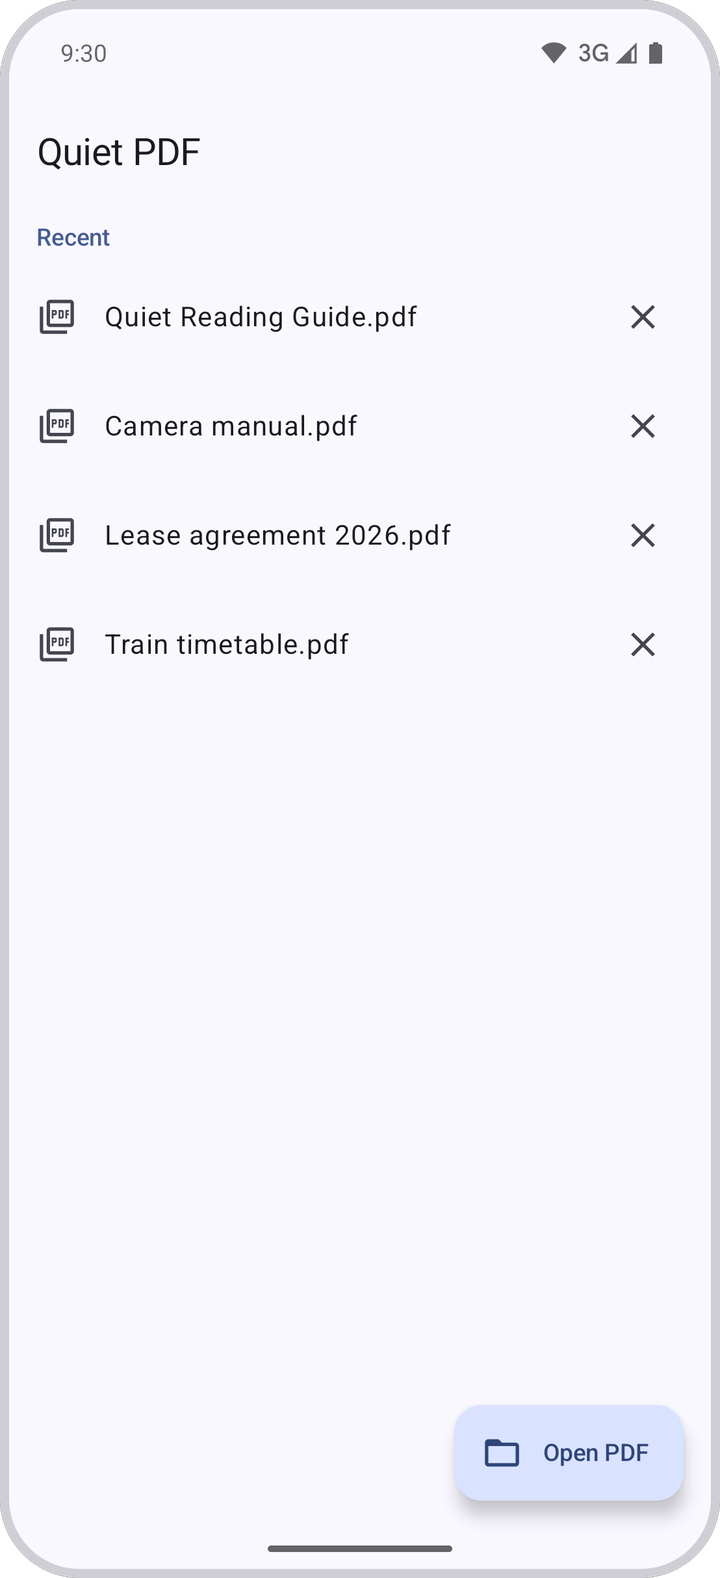
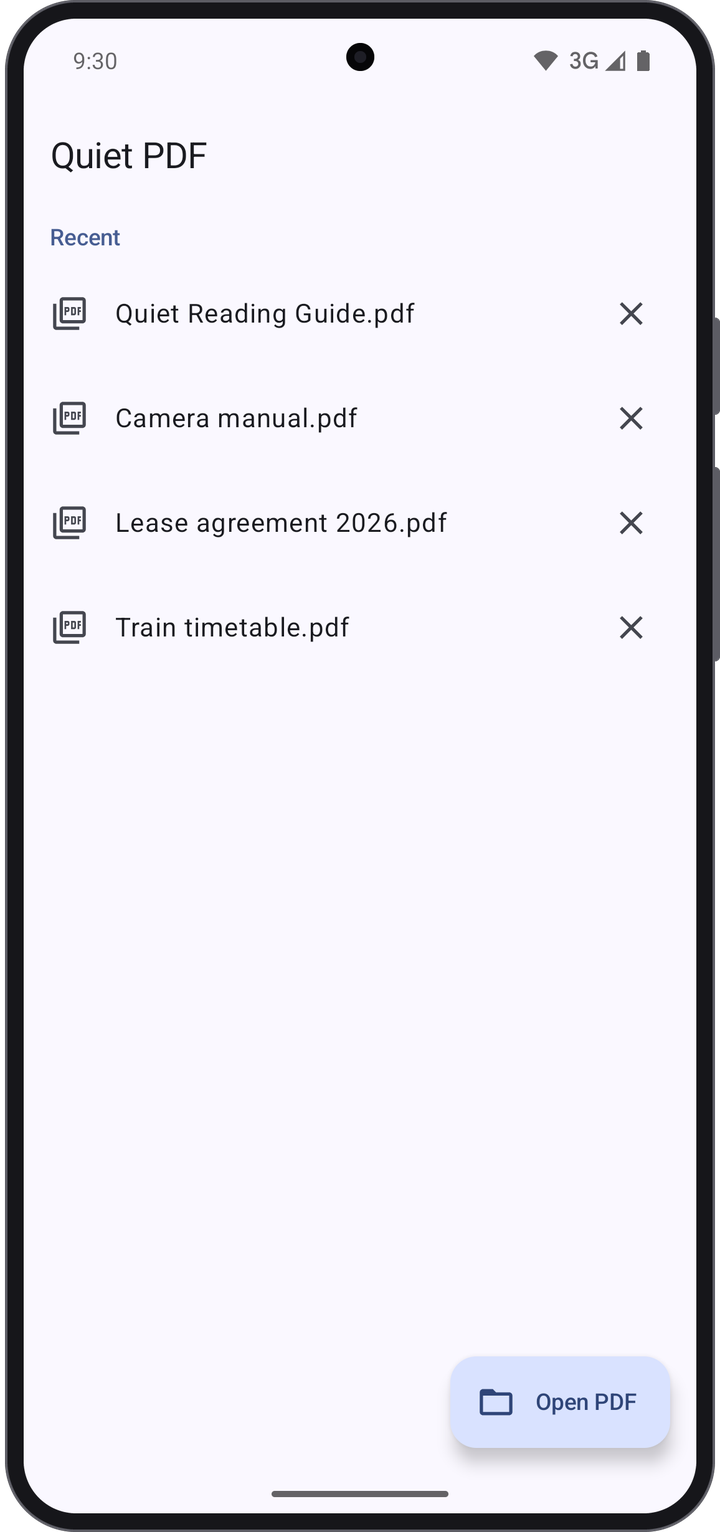
Frame the README screenshots as an Android phone
The first frames were a plain rounded outline, which reads as an
iPhone-style store capture rather than the Android phone the app runs
on. The frame is now a dark bezel with a centred punch-hole camera,
tighter screen corners and side buttons, with a lighter rim so the body
stays visible on a dark page.

diff --git a/tools/frame_screenshots.py b/tools/frame_screenshots.py
@@ -1,11 +1,11 @@
 #!/usr/bin/env python3
 # SPDX-License-Identifier: GPL-3.0-only
-"""Puts the raw screenshots in a phone-shaped frame for the README.
+"""Puts the raw screenshots in an Android phone frame for the README.
 
 Reads every PNG in docs/screenshots/ (the plain 1080x2400 captures, which are also what a
-store listing needs) and writes a framed copy to docs/screenshots/framed/: rounded screen
-corners, a thin bezel and a transparent background, so they sit well on a light or a dark
-page.
+store listing needs) and writes a framed copy to docs/screenshots/framed/: a dark bezel with
+a centred punch-hole camera and side buttons, on a transparent background. A lighter rim
+around the body keeps the phone visible on a dark page.
 
 Run from the repository root after retaking screenshots; needs Pillow:
 
@@ -19,10 +19,22 @@ SOURCE = Path("docs/screenshots")
 OUTPUT = SOURCE / "framed"
 
 OUTPUT_WIDTH = 720          # the README shows them far smaller; this keeps them sharp when opened
-BEZEL = 0.013               # bezel thickness, as a fraction of the screen width
-CORNER = 0.10               # screen corner radius, as a fraction of the screen width
-BEZEL_COLOUR = (206, 206, 212, 255)
-SUPERSAMPLE = 4             # masks are drawn this much larger, then shrunk, for smooth corners
+SUPERSAMPLE = 4             # shapes are drawn this much larger, then shrunk, for smooth edges
+
+# Sizes are fractions of the screen width, so any capture size works.
+BEZEL = 0.024               # dark band between the screen and the edge of the body
+RIM = 0.004                 # lighter line around the body
+CORNER = 0.078              # screen corner radius
+CAMERA = 0.042              # punch-hole diameter
+CAMERA_TOP = 0.036          # distance from the top of the screen to the camera's edge
+BUTTON_DEPTH = 0.007        # how far the side buttons stick out
+# Side buttons on the right edge: (top, height), as fractions of the screen height.
+BUTTONS = [(0.20, 0.065), (0.30, 0.13)]
+
+BODY = (22, 22, 26, 255)
+RIM_COLOUR = (92, 92, 100, 255)
+CAMERA_COLOUR = (6, 6, 8, 255)
+LENS_COLOUR = (30, 30, 38, 255)
 
 
 def rounded_mask(size: tuple[int, int], radius: int) -> Image.Image:
@@ -33,18 +45,37 @@ def rounded_mask(size: tuple[int, int], radius: int) -> Image.Image:
     return big.resize(size, Image.LANCZOS)
 
 
+def paste_rounded(target: Image.Image, colour, box: tuple[int, int, int, int], radius: int) -> None:
+    """Fills the rounded rectangle [box] (left, top, width, height) with [colour]."""
+    left, top, width, height = box
+    target.paste(Image.new("RGBA", (width, height), colour), (left, top), rounded_mask((width, height), radius))
+
+
 def frame(screen: Image.Image) -> Image.Image:
     width, height = screen.size
-    bezel = round(width * BEZEL)
+    bezel, rim = round(width * BEZEL), max(2, round(width * RIM))
     corner = round(width * CORNER)
-    size = (width + 2 * bezel, height + 2 * bezel)
+    depth = round(width * BUTTON_DEPTH)
+    edge = bezel + rim
+    body_w, body_h = width + 2 * edge, height + 2 * edge
 
-    phone = Image.new("RGBA", size, (0, 0, 0, 0))
-    phone.paste(Image.new("RGBA", size, BEZEL_COLOUR), (0, 0), rounded_mask(size, corner + bezel))
-    phone.paste(screen.convert("RGBA"), (bezel, bezel), rounded_mask(screen.size, corner))
+    # The same margin on both sides keeps the phone centred although only one side has buttons.
+    phone = Image.new("RGBA", (body_w + 2 * depth, body_h), (0, 0, 0, 0))
+    for top, length in BUTTONS:
+        paste_rounded(phone, RIM_COLOUR, (depth + body_w - depth, edge + round(height * top), 2 * depth, round(height * length)), depth)
+    paste_rounded(phone, RIM_COLOUR, (depth, 0, body_w, body_h), corner + edge)
+    paste_rounded(phone, BODY, (depth + rim, rim, body_w - 2 * rim, body_h - 2 * rim), corner + bezel)
+    phone.paste(screen.convert("RGBA"), (depth + edge, edge), rounded_mask(screen.size, corner))
 
-    scale = OUTPUT_WIDTH / size[0]
-    return phone.resize((OUTPUT_WIDTH, round(size[1] * scale)), Image.LANCZOS)
+    camera = round(width * CAMERA)
+    lens = round(camera * 0.42)
+    centre_x = depth + edge + width // 2
+    camera_top = edge + round(width * CAMERA_TOP)
+    paste_rounded(phone, CAMERA_COLOUR, (centre_x - camera // 2, camera_top, camera, camera), camera // 2)
+    paste_rounded(phone, LENS_COLOUR, (centre_x - lens // 2, camera_top + (camera - lens) // 2, lens, lens), lens // 2)
+
+    scale = OUTPUT_WIDTH / phone.width
+    return phone.resize((OUTPUT_WIDTH, round(phone.height * scale)), Image.LANCZOS)
 
 
 def main() -> None:
